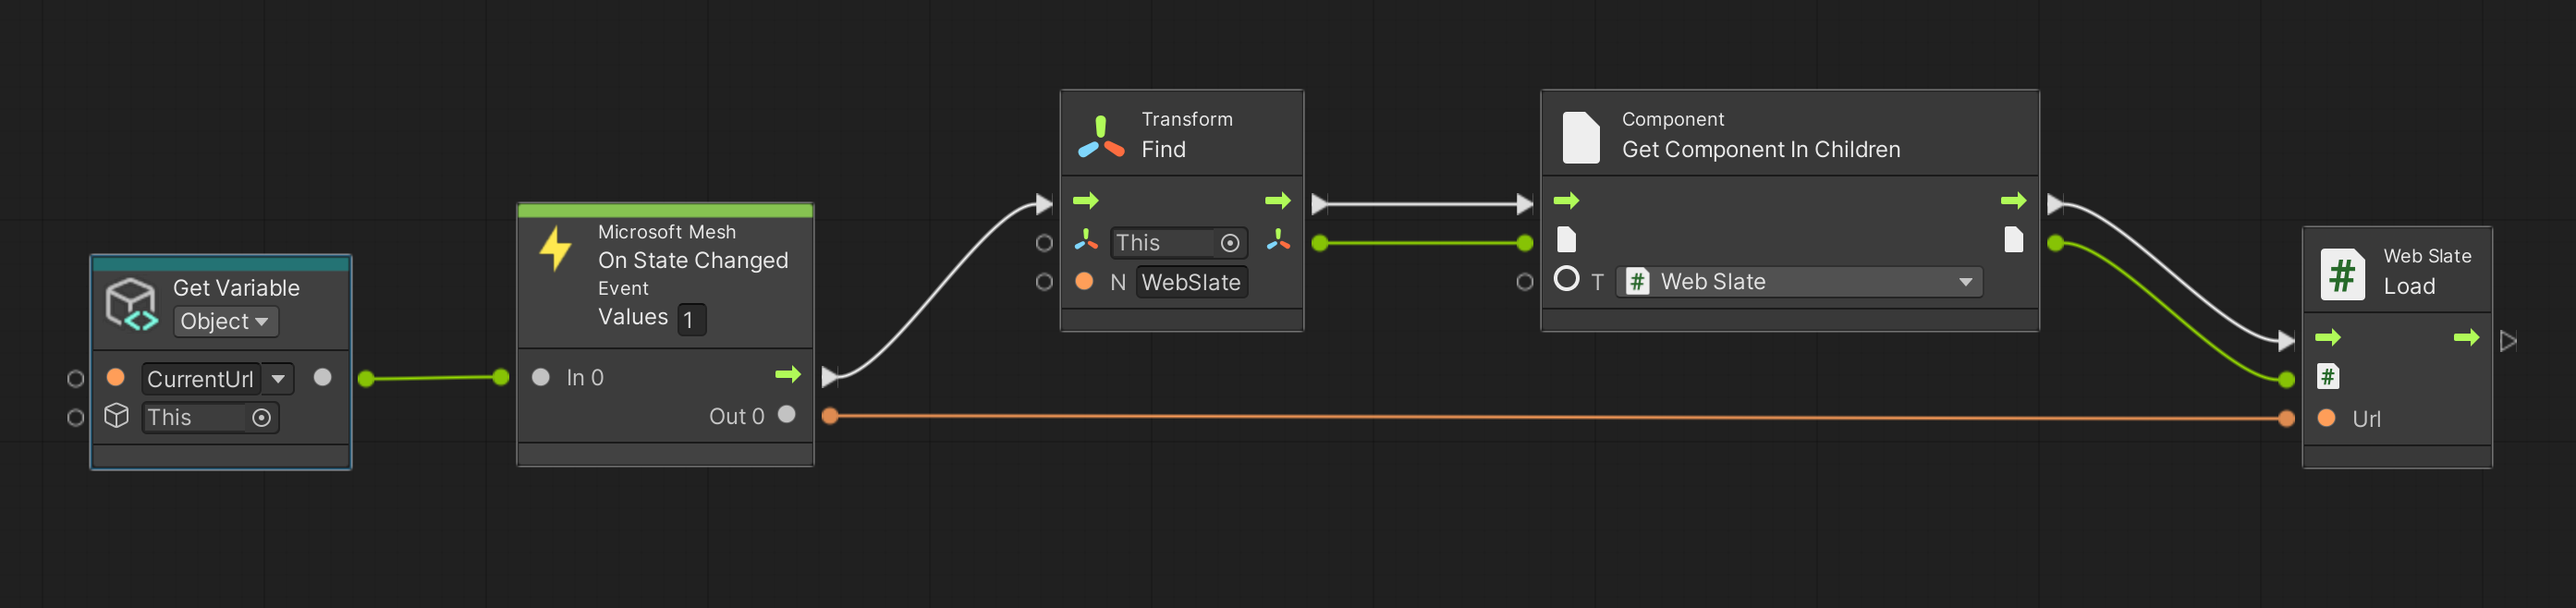
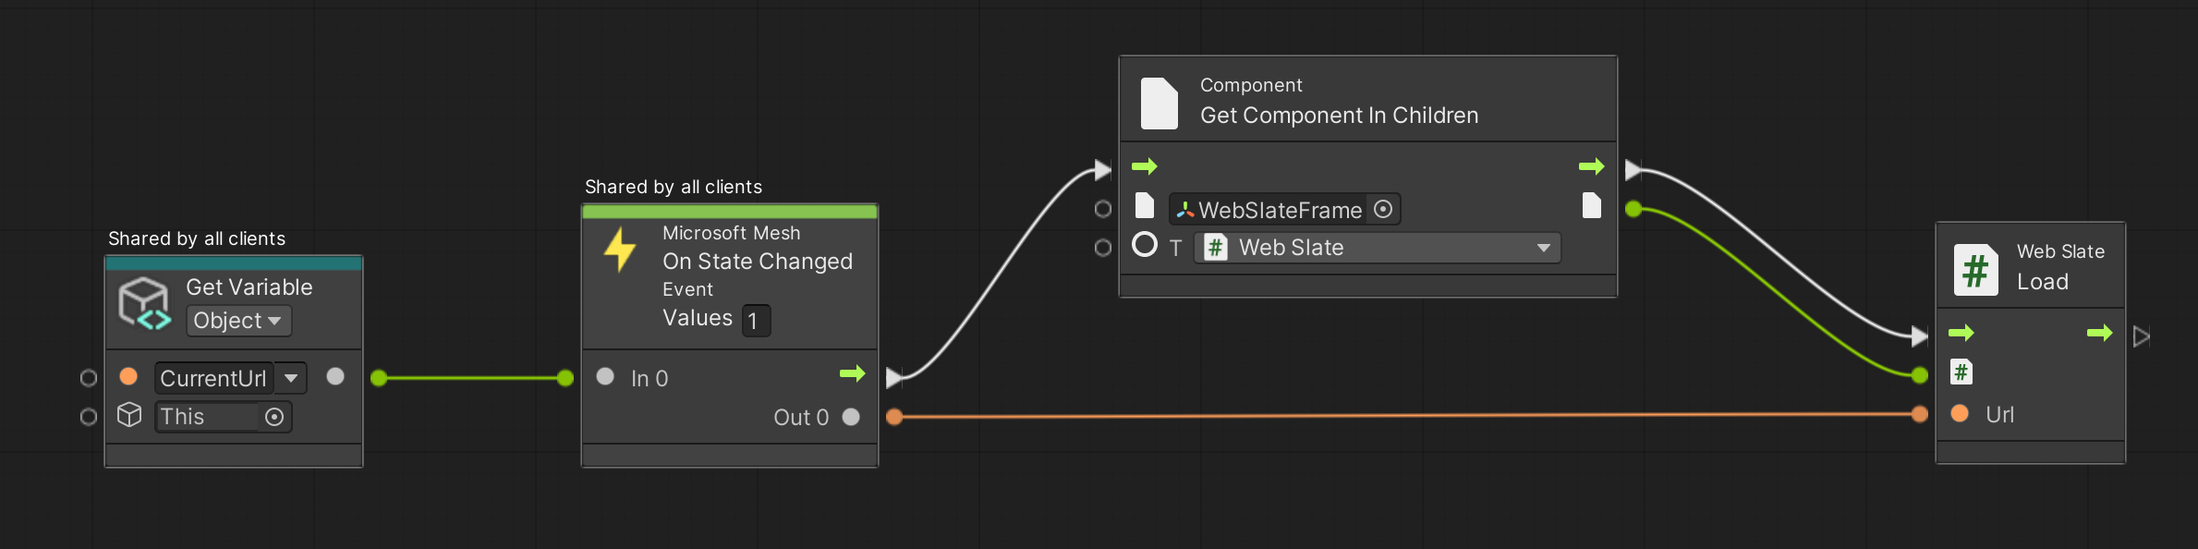
Update the webslate docs to indclude load HTML content from UnityTextAsset

Changed region(s): [[0.0311, 0.0909, 0.9954, 0.8788], [0.9643, 0.6061, 0.9954, 0.6364]]

diff --git a/mesh/develop/enhance-your-environment/webcontent.md b/mesh/develop/enhance-your-environment/webcontent.md
@@ -13,7 +13,7 @@ keywords: Microsoft Mesh, Web content, Web, webslate, URL, video, streaming vide
 
 ![A screenshot of a Mesh experience with a WebSlate on the wall showing a map.](../../media/webview-developer-guide/image003.png)
 
-Use WebSlate to display interactive web content in your 3D Mesh environment. Get a full browsing experience on PC or Quest 2 with intuitive input, customizability, security, and performance management. 
+Use WebSlate to display interactive web content in your 3D Mesh environment. Get a full browsing experience on PC or Quest 2 with intuitive input, customizability, security, and performance management.
 
 You can use WebSlates for:
 
@@ -37,7 +37,7 @@ You can use WebSlates for:
 
 - **[Content Performance Analyzer tool](../debug-and-optimize-performance/cpa.md) integration:** Measure the average time it takes for URP to render WebSlates in a frame and find content loading issues.
 
-- **Testing in Mesh Emulation Mode:** Interact with your content as a user would, directly from the Unity editor.  
+- **Testing in Mesh Emulation Mode:** Interact with your content as a user would, directly from the Unity editor.
 
 - **Manually authenticate in-experience:** Access secure content from within the experience by logging into your account and viewing content at runtime.
 
@@ -45,7 +45,7 @@ You can use WebSlates for:
 
 If you have a Unity project set up to [create Mesh Environments](../build-your-basic-environment/create-a-new-project-or-update.md), adding a WebSlate to your Environment is a straightforward process.
 
-In Mesh, WebSlate loads an interactive page through a provided URL. The URL given to it in the Environment will be the same one loaded in Mesh. In the Mesh toolkit, the WebSlate prefab contains a URL parameter that developers can specify to control the content displayed in their Mesh Environment. 
+In Mesh, WebSlate loads an interactive page through a provided URL. The URL given to it in the Environment will be the same one loaded in Mesh. In the Mesh toolkit, the WebSlate prefab contains a URL parameter that developers can specify to control the content displayed in their Mesh Environment.
 
 - When loaded on the Mesh App for PC and Quest, webpages loaded by a WebSlate are interactable through mouse, keyboard, and Quest XR controller input.
 
@@ -55,38 +55,39 @@ In Mesh, WebSlate loads an interactive page through a provided URL. The URL give
 
 - WebSlates can be configured with visual or cloud scripting to add interactive behaviors and synchronization across users.
 
-- WebSlate can display webpages and it supports interaction but doesn't function as a browser and doesn't support bookmark, history or travel back-forth. 
+- WebSlate can display webpages and it supports interaction but doesn't function as a browser and doesn't support bookmark, history or travel back-forth.
 
 - You can preview your WebSlate in your Unity project before uploading your scene to Mesh by pressing Play.
 
 ## Requirements/Dependencies
 
-WebSlate depends on the *Unity.InputSystem* and *Unity.XR.Interaction.Toolkit* Unity packages, located in the Mesh toolkit.
+WebSlate depends on the _Unity.InputSystem_ and _Unity.XR.Interaction.Toolkit_ Unity packages, located in the Mesh toolkit.
 
 ## Add a WebSlate prefab to your Unity project
 
-There are two flavors of WebSlate prefabs available in the Mesh toolkit that you can add to your scene. If you prefer a clean WebSlate with no extra components, add the WebSlate prefab. If you'd like a WebSlate contained in a stylized frame with extra features, add the *WebSlateFramed* prefab.
+There are two flavors of WebSlate prefabs available in the Mesh toolkit that you can add to your scene. If you prefer a clean WebSlate with no extra components, add the WebSlate prefab. If you'd like a WebSlate contained in a stylized frame with extra features, add the _WebSlateFramed_ prefab.
 
 ![Image showcasing two webslate prefabs.](../../media/webview-developer-guide/image025.png)
 
 ### Add the WebSlate prefab from a menu
 
-**To add either of the prefabs to your scene**:  
+**To add either of the prefabs to your scene**:
+
 1. Right-click inside the **Hierarchy**, and then in the context menu, do one of the following:
 
-    **To add the clean WebSlate with no extra components**:  
-    Select **Mesh Toolkit** > **WebSlate**.
-    
-    **To the WebSlate with the stylized frame and extra features**:  
-    Select **Mesh Toolkit** > **WebSlateFramed**.
+   **To add the clean WebSlate with no extra components**:  
+   Select **Mesh Toolkit** > **WebSlate**.
+
+   **To the WebSlate with the stylized frame and extra features**:  
+   Select **Mesh Toolkit** > **WebSlateFramed**.
 
 1. Add a URL to the WebSlate to display content.
 
-    **Tip**: You can also click the "+" button at the top left of the Hierarchy window to see the same menu.
+   **Tip**: You can also click the "+" button at the top left of the Hierarchy window to see the same menu.
 
-    ![Image of adding the Mesh toolkit using the context menu.](../../media/webview-developer-guide/image006.png)
+   ![Image of adding the Mesh toolkit using the context menu.](../../media/webview-developer-guide/image006.png)
 
-    ![Add Mesh toolkit to Hierarchy in Unity.](../../media/webview-developer-guide/image007.png)
+   ![Add Mesh toolkit to Hierarchy in Unity.](../../media/webview-developer-guide/image007.png)
 
 ### Search for and add the WebSlate prefab
 
@@ -94,15 +95,15 @@ You can also search for and add a WebSlate prefab.
 
 1. In the Search field, type in "WebSlate." Make sure you have the **All** filter selected.
 
-    ![A screen shot of the list of results after WebSlate has been searched for.](../../media/enhance-your-environment/web_content/001-webslate-search-results.png)
+   ![A screen shot of the list of results after WebSlate has been searched for.](../../media/enhance-your-environment/web_content/001-webslate-search-results.png)
 
 1. Drag the prefab you want into **Scene** view or the **Hierarchy**.
 
-    ![A screenshot of the WebSlate prefab added to the Hierarchy.](../../media/enhance-your-environment/web_content/002-webslate-in-scene-and-hierarchy.png)
+   ![A screenshot of the WebSlate prefab added to the Hierarchy.](../../media/enhance-your-environment/web_content/002-webslate-in-scene-and-hierarchy.png)
 
 1. In the **Inspector**, navigate to the **WebSlate** component, and then add the URL you want to display on the WebSlate:
 
-    ![A screnshot of the WebSlate component with a custom URL added.](../../media/enhance-your-environment/web_content/003-webslate-url.png)
+   ![A screnshot of the WebSlate component with a custom URL added.](../../media/enhance-your-environment/web_content/003-webslate-url.png)
 
 ## Ensure that your WebSlate is readable
 
@@ -128,16 +129,16 @@ To enable interaction in the WebSlate, you have to set up a few things.
 1. Add the [Mesh Emulator](../debug-and-optimize-performance/mesh-emulator.md) to your scene to enable Mesh Emulation Mode.
 
 1. Create a new **Plane** GameObject. This will be your floor. Ensure the GameObject is positioned at the origin (0,0,0):
-    
-    ![A screenshot of the Plane menu item.](../../media/webview-developer-guide/image015.png)
 
-1. Position the WebSlate so it sits in front of the *MeshEmulatorSetup* character:
+   ![A screenshot of the Plane menu item.](../../media/webview-developer-guide/image015.png)
 
-    ![A screenshot of the Mesh Emulator Setup character placed in front of and facing two WebSlates.](../../media/webview-developer-guide/image016.png)
+1. Position the WebSlate so it sits in front of the _MeshEmulatorSetup_ character:
+
+   ![A screenshot of the Mesh Emulator Setup character placed in front of and facing two WebSlates.](../../media/webview-developer-guide/image016.png)
 
 1. Click the Play button, and then double-click to interact with the Web page displayed in the WebSlate:
 
-    ![A screenshot of two WebSlates displayed while in Mesh Emulation mode.](../../media/webview-developer-guide/image017.png)
+   ![A screenshot of two WebSlates displayed while in Mesh Emulation mode.](../../media/webview-developer-guide/image017.png)
 
 Great job! You added a custom WebSlate to your Unity scene and tested the interaction in Mesh Emulation Mode.
 
@@ -155,21 +156,29 @@ To enable visual scripting using WebSlate, you must set up a few things.
 
    ![A screenshot of Visual scripting page in Unity.](../../media/webview-developer-guide/image018.png)
 
-4. Expand **Node Library**. This displays the assembly list.
+3. Expand **Node Library**. This displays the assembly list.
 
-5. At the bottom of the assemblies list on the right, click the Add (+) button. This adds a new item to the list which displays "(No Assembly)".
+4. At the bottom of the assemblies list on the right, click the Add (+) button. This adds a new item to the list which displays "(No Assembly)".
 
-6. Click the new assembly entry, and then in the Search field, type "Webslate". This narrows the list to **Microsoft.Mesh.WebSlate**. Select this item to add it to the **Assembly** list.
+5. Click the new assembly entry, and then in the Search field, type "Webslate". This narrows the list to **Microsoft.Mesh.WebSlate**. Select this item to add it to the **Assembly** list.
 
    ![A screenshot of a Webslate added to the Node Library.](../../media/webview-developer-guide/image019.png)
 
-    Visual Scripting adds the **Microsoft.Mesh.WebSlate** and its nodes to the Node Library. To use the nodes in your project, select the **Regenerate Nodes** button.
+   Visual Scripting adds the **Microsoft.Mesh.WebSlate** and its nodes to the Node Library. To use the nodes in your project, select the **Regenerate Nodes** button.
 
-    ![Screenshot of WebSlate from the assembly menu in Unity.](../../media/webview-developer-guide/image020.png)
+   ![Screenshot of WebSlate from the assembly menu in Unity.](../../media/webview-developer-guide/image020.png)
 
-    After incorporating the WebSlate visual scripting node into your project, you can utilize it just like any other node in your script graph. Here's an example of a script graph that loads a new URL in WebSlate when the state of a graph variable changes.
+   ### Load URL
 
-    ![A screenshot of an example script graph that loads a new URL in a WebSlate.](../../media/webview-developer-guide/image021.png)
+   Developers can now dynamically change web content in real-time by loading new URLs through Visual Scripting. This functionality broadens the scope for various applications, including altering web content based on user preferences or updating it in response to real-time data.
+
+   ![A screenshot of an example script graph that loads a new URL in a WebSlate.](../../media/webview-developer-guide/image021.png)
+
+   ### Load HTML Content
+
+   This new feature in WebSlate allows developers to directly load HTML content using Unity TextAssets, streamlining the development process. This integration not only simplifies the workflow but also enables immediate feedback in Unity Play Mode, enhancing real-time editing and debugging. Additionally, it supports dynamic content switching, offering flexibility and a more interactive user experience.
+
+   ![A screenshot of an example script graph that loads a HTML content in a WebSlate.](../../media/webview-developer-guide/image026.png)
 
 ## WebSlate in Cloud Scripting
 
@@ -181,14 +190,13 @@ For further guidance on the WebSlate node in Mesh Apps, see the [Visual scriptin
 
 ## General Tips
 
-- You can place a WebSlate on GameObjects other than a Quad by adding *WebSlate.cs* as a script component directly to your 3D object of choice. Note that this might result in visual texture stretching, inversion, and/or rotation.
+- You can place a WebSlate on GameObjects other than a Quad by adding _WebSlate.cs_ as a script component directly to your 3D object of choice. Note that this might result in visual texture stretching, inversion, and/or rotation.
 
 - A WebSlate loads a default URL. You should replace this URL with one that you prefer for each WebSlate in use. The brightness parameter is set to 1.0 (100% of the browser's brightness).
 
 - WebSlates will automatically suspend themselves after being offscreen for too long. If you need to ensure a given slate is always running (such as a livestream or continuous audio playback), then check the "Prevent Suspension" button on the association WebSlate. See below for performance implications.
 
 ![Unity usage of WebSlate](../../media/webview-developer-guide/image004.png)
-
 
 ## Performance
 
@@ -204,19 +212,17 @@ For further guidance on the WebSlate node in Mesh Apps, see the [Visual scriptin
 
 - Since WebSlates don't have any external navigation UI by default, the best practice is to only load custom URLs, where the site navigation is cyclic and can be done inside the page. This can be done with a navigation sidebar, or links to a hub page, for example.
 
+- The Content Performance Analyzer (CPA) tool includes a WebSlate analyzer which measures the average time it takes Unity's render pipeline to render WebSlates in a frame.
 
+  - Measurements are based on Unity's profiler recorder and require Play mode. The analyzer moves the camera over each WebSlate to collect sufficient profiler samples and calculates the average render time.
 
-- The Content Performance Analyzer (CPA) tool includes a WebSlate analyzer which measures the average time it takes Unity's render pipeline to render WebSlates in a frame. 
+  - This provides a first-stage, high-level analysis of WebSlate render times in the context of Unity's render pipeline. It doesn't provide the frame rate of the WebSlate content itself.
 
-    - Measurements are based on Unity's profiler recorder and require Play mode. The analyzer moves the camera over each WebSlate to collect sufficient profiler samples and calculates the average render time.
+  - If Unity's render pipeline exceeds the threshold to render WebSlates (currently 10ms), the CPA tool provides a warning.
 
-    - This provides a first-stage, high-level analysis of WebSlate render times in the context of Unity's render pipeline. It doesn't provide the frame rate of the WebSlate content itself.
-  
-    - If Unity's render pipeline exceeds the threshold to render WebSlates (currently 10ms), the CPA tool provides a warning.
-  
-    - The same measurements are also available to the Performance Profiler. The group on the Performance Profiler typically changes colors from green to red when the budget allowance for a category is surpassed. For now, the WebSlate group only shows as green until a reasonable render time budget is rationalized for WebSlates.
+  - The same measurements are also available to the Performance Profiler. The group on the Performance Profiler typically changes colors from green to red when the budget allowance for a category is surpassed. For now, the WebSlate group only shows as green until a reasonable render time budget is rationalized for WebSlates.
 
-    ![WebSlate performance analysis using CPA tool.](../../media/webview-developer-guide/CPAwebslate.png)
+  ![WebSlate performance analysis using CPA tool.](../../media/webview-developer-guide/CPAwebslate.png)
 
 ## Security restrictions
 
@@ -230,19 +236,19 @@ For further guidance on the WebSlate node in Mesh Apps, see the [Visual scriptin
 
 ### WebSlate domain allow-list
 
-To ensure security against unintended URL-based attack vectors such as phishing, WebSlates by default restrict navigation to the URL's that are included under the domain of the first page loaded into the WebSlate. For example, a WebSlate launched on https://www.microsoft.com/ will only navigate to pages whose URL's start with "www.microsoft.com". While this ensures that users won't  accidentally diverge from the intended navigation flow, it can be an overly restrictive default for some use cases, such as user authentication, during which there may be redirections to subdomains or third-party authentication providers.
+To ensure security against unintended URL-based attack vectors such as phishing, WebSlates by default restrict navigation to the URL's that are included under the domain of the first page loaded into the WebSlate. For example, a WebSlate launched on https://www.microsoft.com/ will only navigate to pages whose URL's start with "www.microsoft.com". While this ensures that users won't accidentally diverge from the intended navigation flow, it can be an overly restrictive default for some use cases, such as user authentication, during which there may be redirections to subdomains or third-party authentication providers.
 
 The way to accomodate for these use cases is by adding domains to the WebSlate's allow list.
 
 ### Automatically add domains (recommended)
 
-When working with WebSlates in the Unity editor, you have the option to enable "Collect Allowed Domains". This will remove the domain navigation restriction so that you can navigate freely when running in Play mode to test your scenario. While you navigate in Play mode, the WebSlate will log the domains you visit in the background. 
+When working with WebSlates in the Unity editor, you have the option to enable "Collect Allowed Domains". This will remove the domain navigation restriction so that you can navigate freely when running in Play mode to test your scenario. While you navigate in Play mode, the WebSlate will log the domains you visit in the background.
 
 ![Collect allowed domains checkbox is enabled.](../../media/webview-developer-guide/allowed-domains-enabled.png)
 
-In this case, we're expanding navigation from *microsoft.com* to also include *learn.microsoft.com*.
+In this case, we're expanding navigation from _microsoft.com_ to also include _learn.microsoft.com_.
 
-Once you exit Play mode, you'll find an asset called *"WebViewAllowedDomains.asset"* in your top-level *Assets* folder.
+Once you exit Play mode, you'll find an asset called _"WebViewAllowedDomains.asset"_ in your top-level _Assets_ folder.
 
 ![WebSlate allowed domains asset.](../../media/webview-developer-guide/allowed-domains-asset.png)
 
@@ -251,7 +257,7 @@ Clicking on this asset will give you the list of extra domains you visited beyon
 ![Copy allowed domains.](../../media/webview-developer-guide/copy-allowed-domains.png)
 ![Paste allowed domains.](../../media/webview-developer-guide/paste-allowed-domains.png)
 
->[!Note]
+> [!Note]
 > This option is impossible to enable in uploaded scenes. Leaving "Collect Allowed Domains" enabled will NOT remove the restriction in your final scene. However, your allowed domains list will persist and will allow navigation as long as the domains are added to the WebSlate.
 
 ### Manually add domains
@@ -280,6 +286,4 @@ See the [WebSlate sections in the Mesh toolkit known issues article](../../Resou
 
 ## Feedback for Web content in Mesh
 
-
 We love feedback and bug reports! If you'd like to provide feedback, use the Feedback button inside any Mesh experience. This ensures that your feedback and bug reporting will be reviewed and incorporated quickly. For WebSlate feedback, include "**[web content]**" or **a mention of WebSlate** in your feedback.
-
